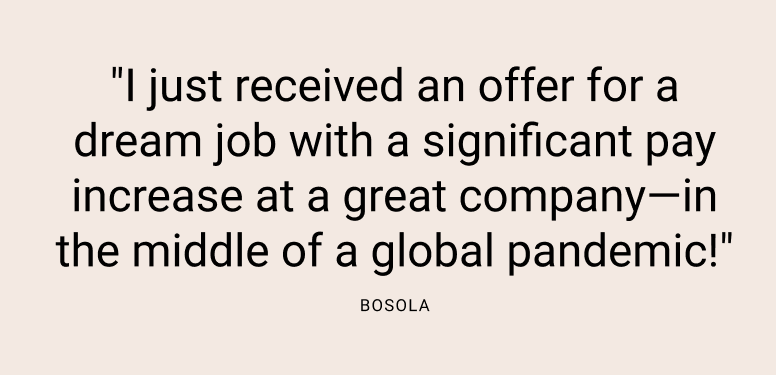
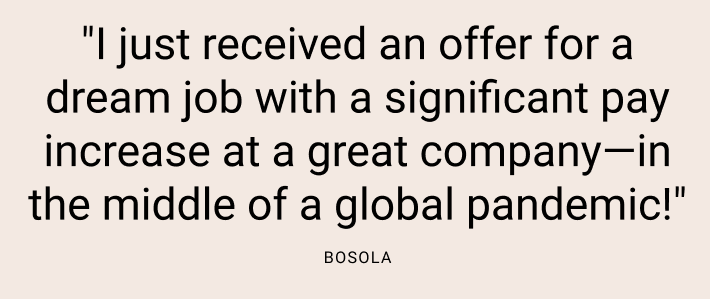
Add chnges

Changed region(s): [[0.062, 0.0903, 0.9606, 0.602], [0.031, 0.602, 0.9915, 0.903]]

diff --git a/index.html b/index.html
@@ -260,64 +260,39 @@
 
 
 
-
-
-        <div id="carouselExampleDark" class="carousel carousel-dark slide" data-bs-ride="carousel">
-
+        <div id="carouselExampleIndicators" class="carousel slide" data-bs-ride="true">
           <div class="carousel-indicators">
-            <button type="button" data-bs-target="#carouselExampleDark" data-bs-slide-to="0" class="active"
+            <button type="button" data-bs-target="#carouselExampleIndicators" data-bs-slide-to="0" class="active"
               aria-current="true" aria-label="Slide 1"></button>
-
-            <button type="button" data-bs-target="#carouselExampleDark" data-bs-slide-to="1"
+            <button type="button" data-bs-target="#carouselExampleIndicators" data-bs-slide-to="1"
               aria-label="Slide 2"></button>
-
-            <button type="button" data-bs-target="#carouselExampleDark" data-bs-slide-to="2"
+            <button type="button" data-bs-target="#carouselExampleIndicators" data-bs-slide-to="2"
               aria-label="Slide 3"></button>
-
           </div>
-
-          <div id="carouselExampleDark" class="carousel carousel-dark slide" data-bs-ride="carousel">
-            <div class="carousel-indicators">
-              <button type="button" data-bs-target="#carouselExampleDark" data-bs-slide-to="0" class="active"
-                aria-current="true" aria-label="Slide 1"></button>
-
-              <button type="button" data-bs-target="#carouselExampleDark" data-bs-slide-to="1"
-                aria-label="Slide 2"></button>
-
-              <button type="button" data-bs-target="#carouselExampleDark" data-bs-slide-to="2"
-                aria-label="Slide 3"></button>
-
+          <div class="carousel-inner">
+            <div class="carousel-item active">
+              <img src="./img/bg-for-slider.png" class="d-block w-100" alt="...">
             </div>
-            <div class="carousel-inner">
-              <div class="carousel-item active" data-bs-interval="10000">
-                <!-- <img src="..." class="d-block w-100" alt="..."> -->
-                <div class="carousel-caption d-none d-md-block">
-                  <p class="article">"I just received an offer for a dream job with a significant pay increase at a
-                    great company—in the middle of a global pandemic!"</p>
-                  <p class="autor">Bosola</p>
-                </div>
-              </div>
-              <div class="carousel-item " data-bs-interval="20000">
-                <!-- <img src="..." class="d-block w-100" alt="..."> -->
-                <div class="carousel-caption d-none d-md-block">
-                  <p class="article">"I just received an offer for a dream job with a significant pay increase at a
-                    great company—in the middle of a global pandemic!"</p>
-                  <p class="autor">Bosola</p>
-                </div>
-              </div>
-              <div class="carousel-item " data-bs-interval="30000">
-                <!-- <img src="..." class="d-block w-100" alt="..."> -->
-                <div class="carousel-caption d-none d-md-block">
-                  <p class="article">"I just received an offer for a dream job with a significant pay increase at a
-                    great company—in the middle of a global pandemic!"</p>
-                  <p class="autor">Bosola</p>
-                </div>
-              </div>
+            <div class="carousel-item">
+              <img src="./img/bg-for-slider.png" class="d-block w-100" alt="...">
             </div>
-
+            <div class="carousel-item">
+              <img src="./img/bg-for-slider.png" class="d-block w-100" alt="...">
+            </div>
           </div>
-
+          <button class="carousel-control-prev" type="button" data-bs-target="#carouselExampleIndicators"
+            data-bs-slide="prev">
+            <span class="carousel-control-prev-icon" aria-hidden="true"></span>
+            <span class="visually-hidden">Previous</span>
+          </button>
+          <button class="carousel-control-next" type="button" data-bs-target="#carouselExampleIndicators"
+            data-bs-slide="next">
+            <span class="carousel-control-next-icon" aria-hidden="true"></span>
+            <span class="visually-hidden">Next</span>
+          </button>
         </div>
+
+
 
 
       </div>

diff --git a/style.css b/style.css
@@ -471,7 +471,7 @@ max-width: 1079px;
 }
 
 .carousel-item{
-  height: 600px;
+  height: 350px;
 }
 
 
@@ -488,6 +488,7 @@ max-width: 1079px;
 .carousel-indicators [data-bs-target]{
   width: 12px;
   height: 12px;border-radius: 100%;
+  background-color: #000;
 }
 button.active{
   width: 6px;
